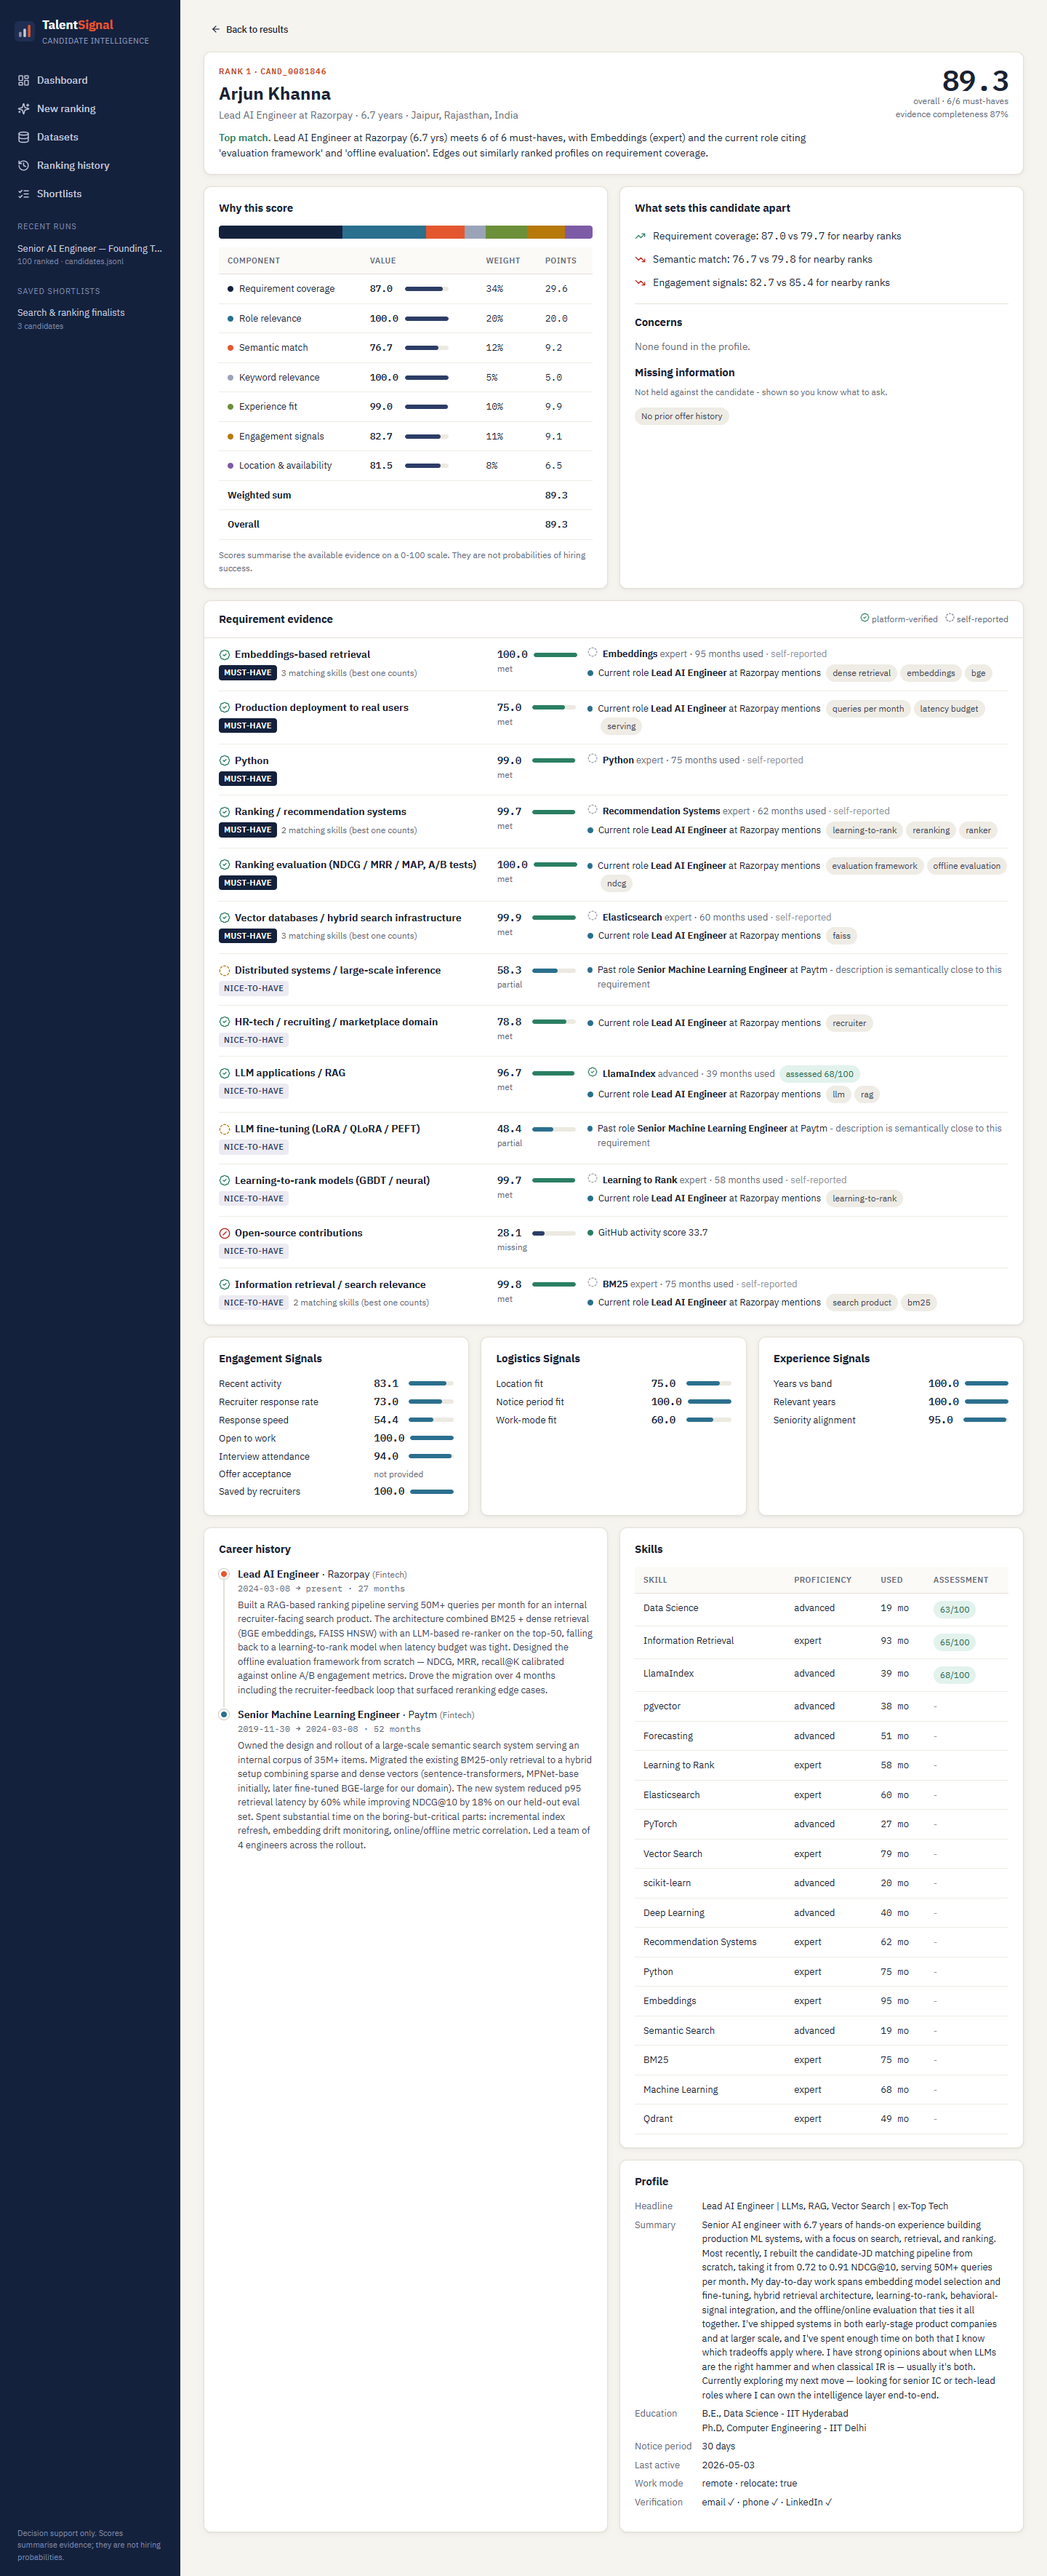
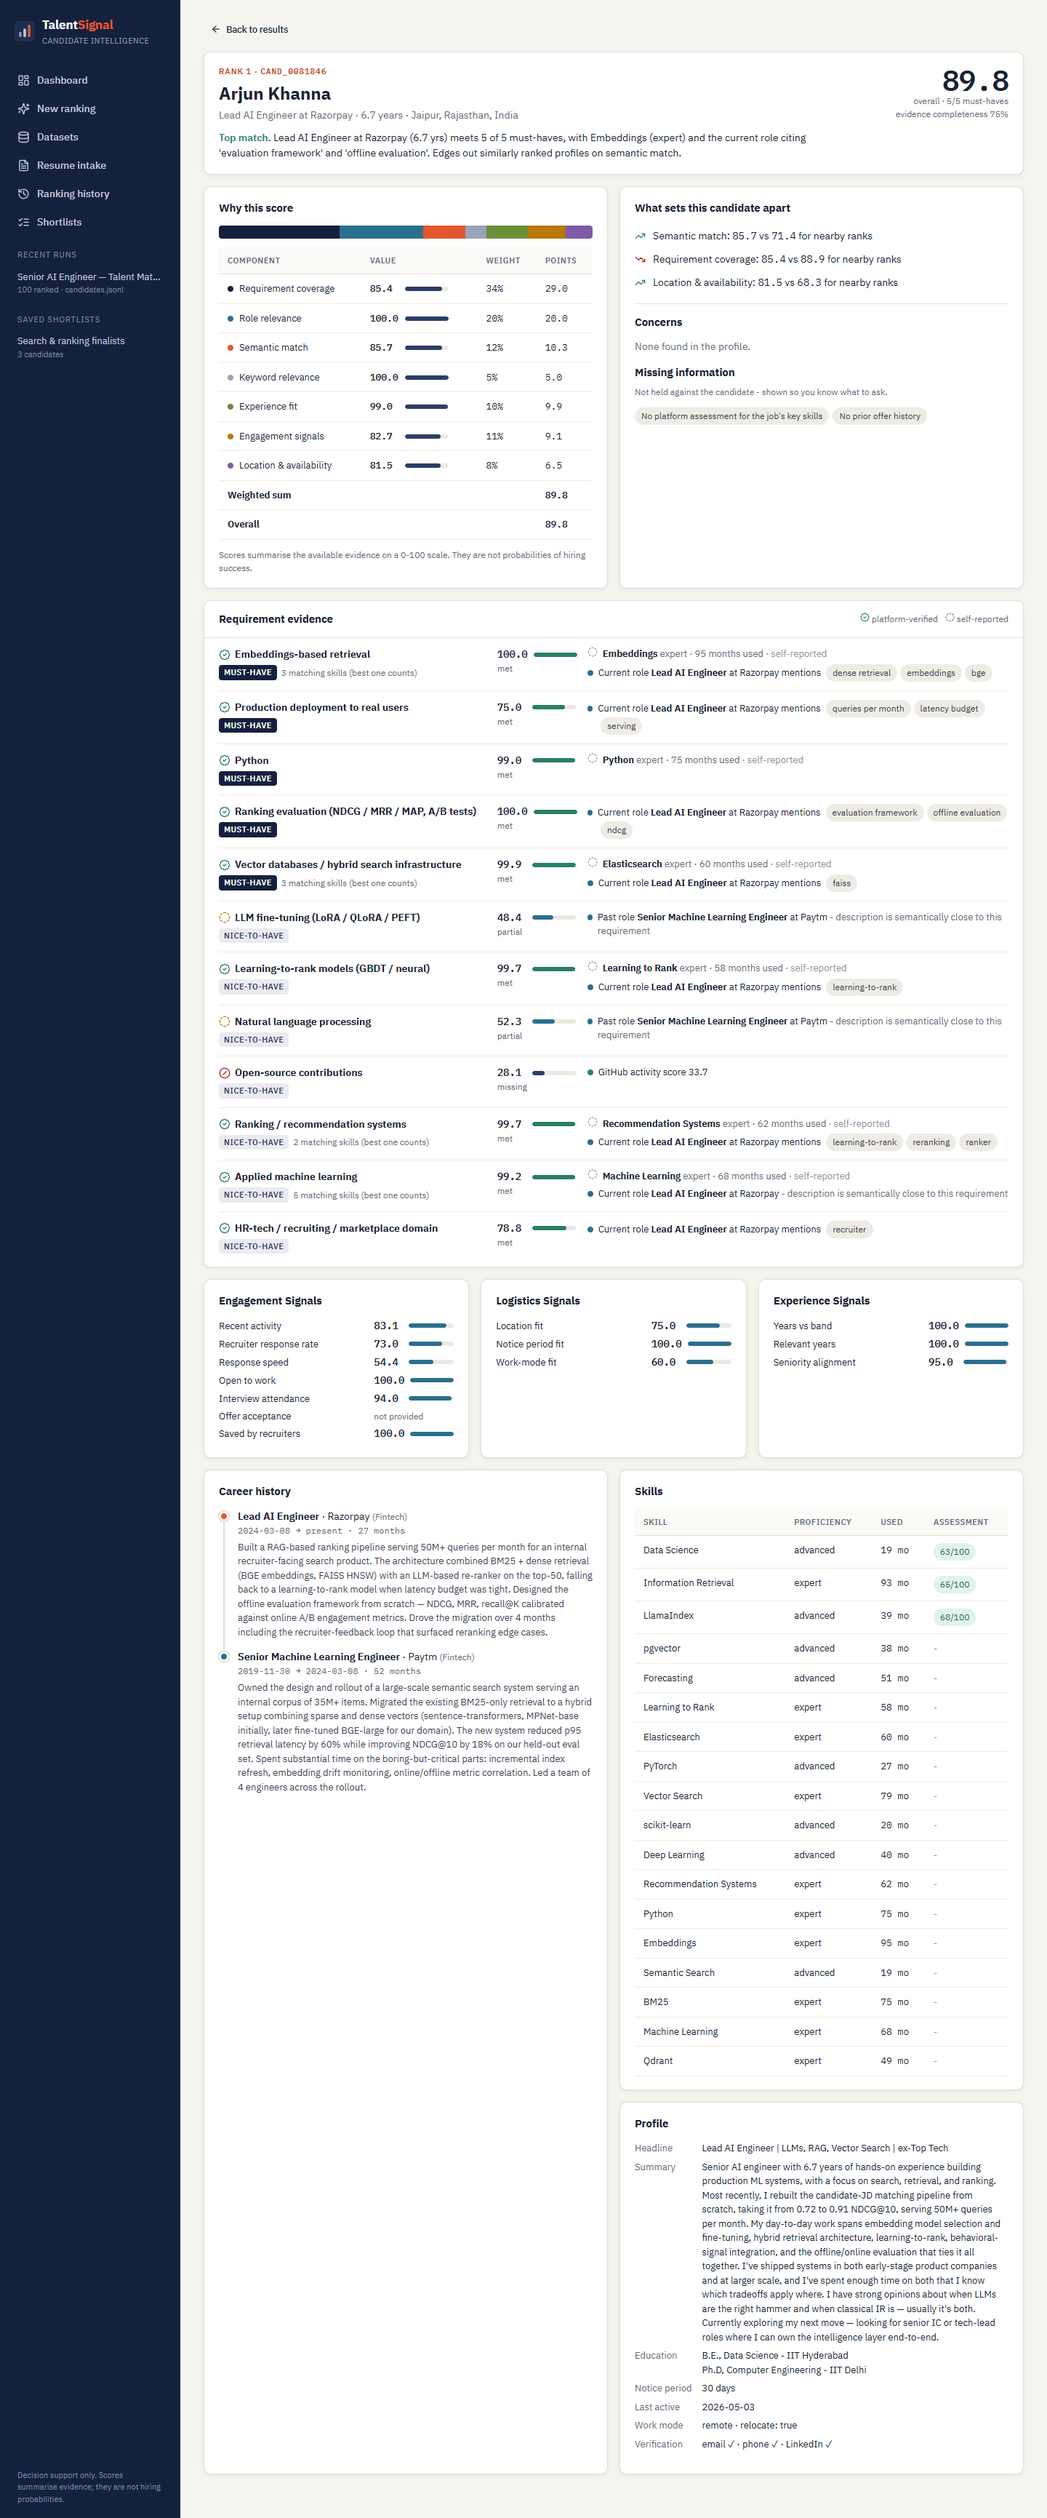
Add synthetic sample-dataset script; retake screenshots with the sample JD
- scripts/make_sample_dataset.py writes the fictional pool used by the tests,
  so the app can be tried without any external data
- docs/screenshots 01-10 recaptured with the original sample job description

diff --git a/scripts/make_sample_dataset.py b/scripts/make_sample_dataset.py
@@ -1,0 +1,34 @@
+"""Write a small synthetic candidate pool so the app can be tried without any external data.
+
+    python scripts/make_sample_dataset.py [--out data/sample_candidates.jsonl] [--filler 110]
+
+The records come from tests/factories.py (the same fictional pool the test suite uses):
+a strong ML search engineer, a keyword stuffer, an impossible profile that is held for
+review, other profiles, and generic filler candidates. Upload the file on the Datasets
+page, or point TALENTSIGNAL_LIBRARY_DATASETS at it.
+"""
+from __future__ import annotations
+
+import argparse
+import sys
+from pathlib import Path
+
+ROOT = Path(__file__).resolve().parents[1]
+sys.path[:0] = [str(ROOT), str(ROOT / "tests")]
+
+from factories import standard_pool, write_jsonl  # noqa: E402
+
+
+def main() -> None:
+    ap = argparse.ArgumentParser()
+    ap.add_argument("--out", type=Path, default=ROOT / "data" / "sample_candidates.jsonl")
+    ap.add_argument("--filler", type=int, default=110, help="number of generic filler candidates")
+    args = ap.parse_args()
+    args.out.parent.mkdir(parents=True, exist_ok=True)
+    records = standard_pool(n_filler=args.filler)
+    write_jsonl(records, args.out)
+    print(f"Wrote {len(records)} synthetic candidates to {args.out}")
+
+
+if __name__ == "__main__":
+    main()
